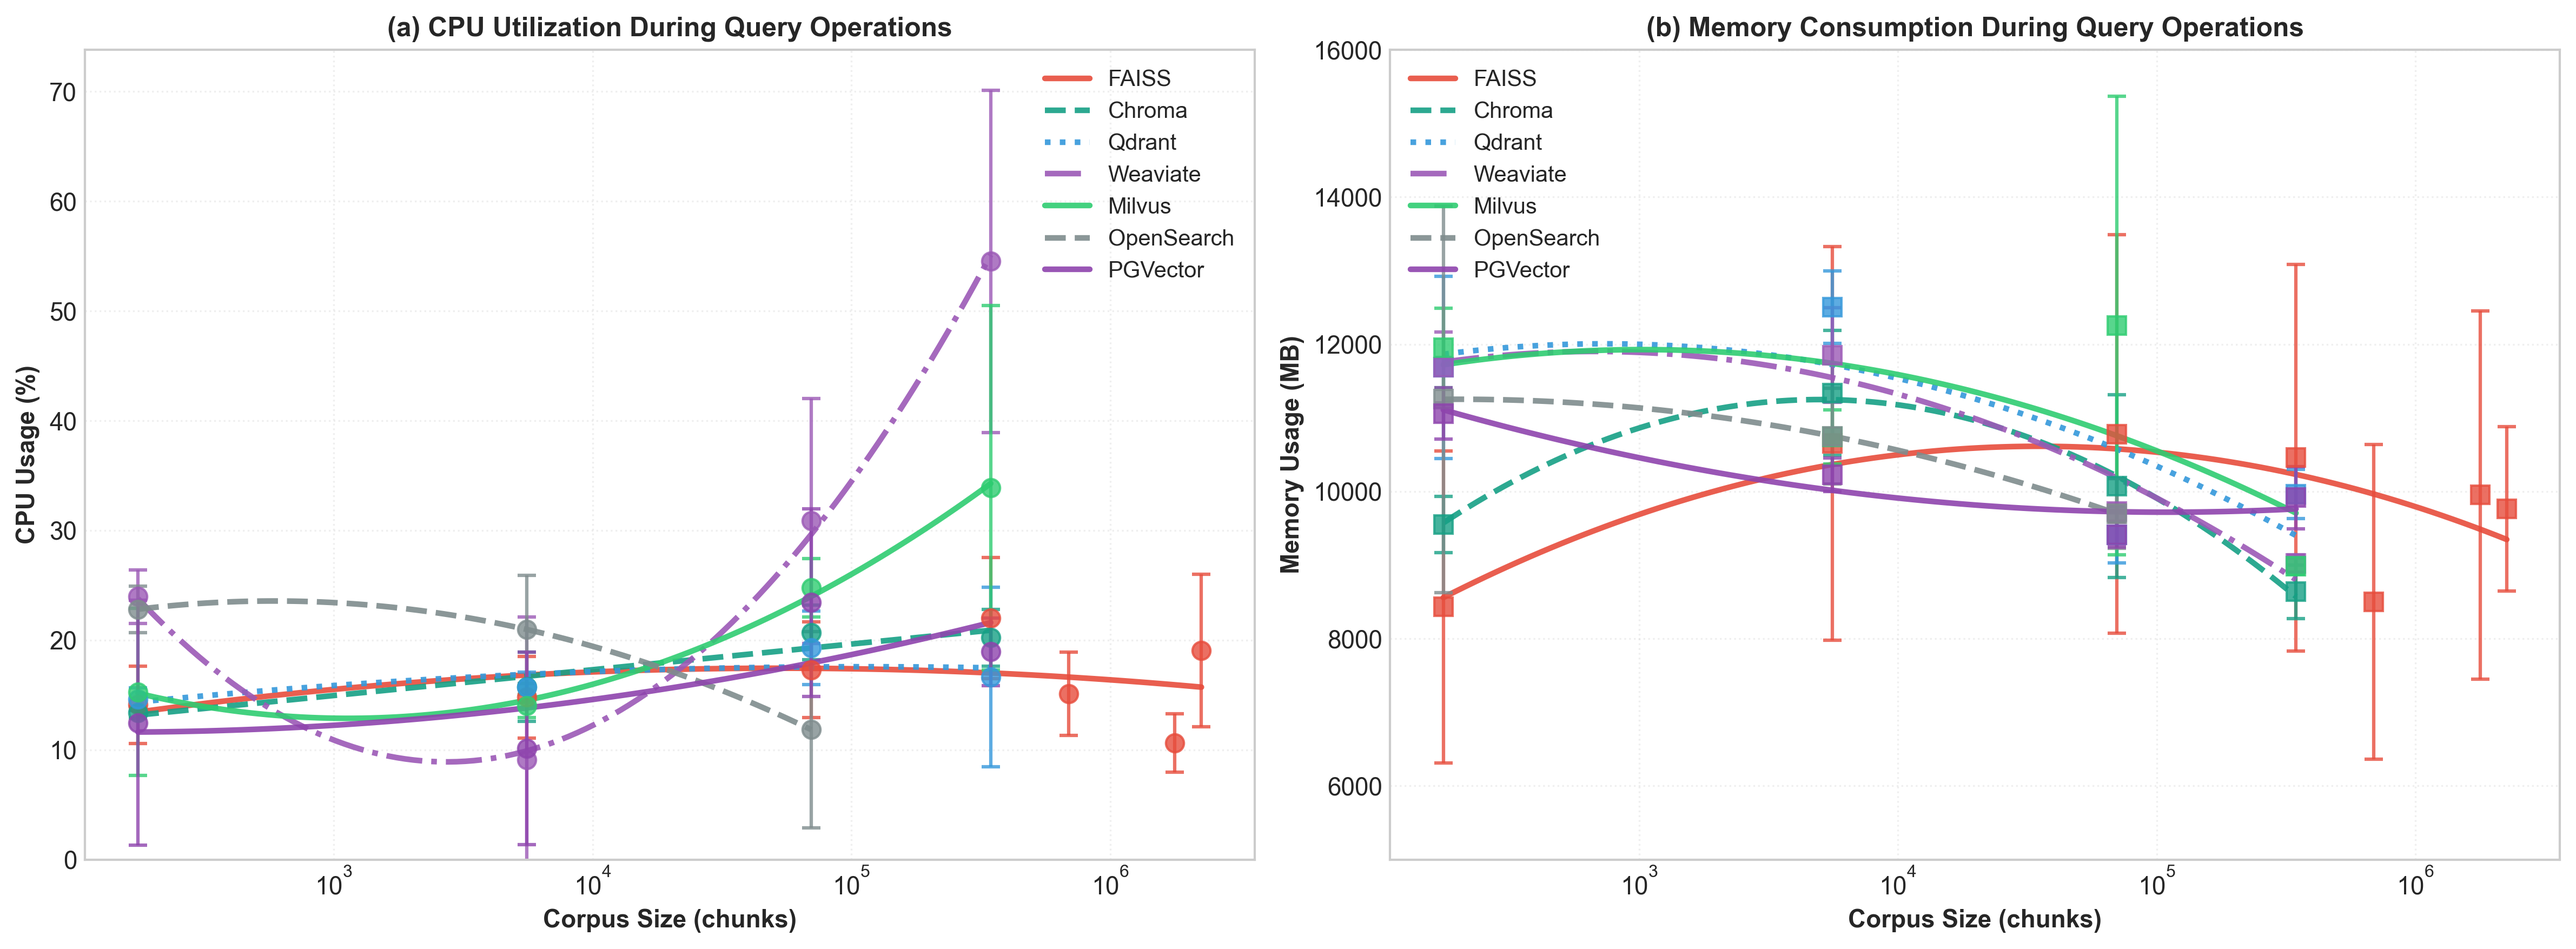
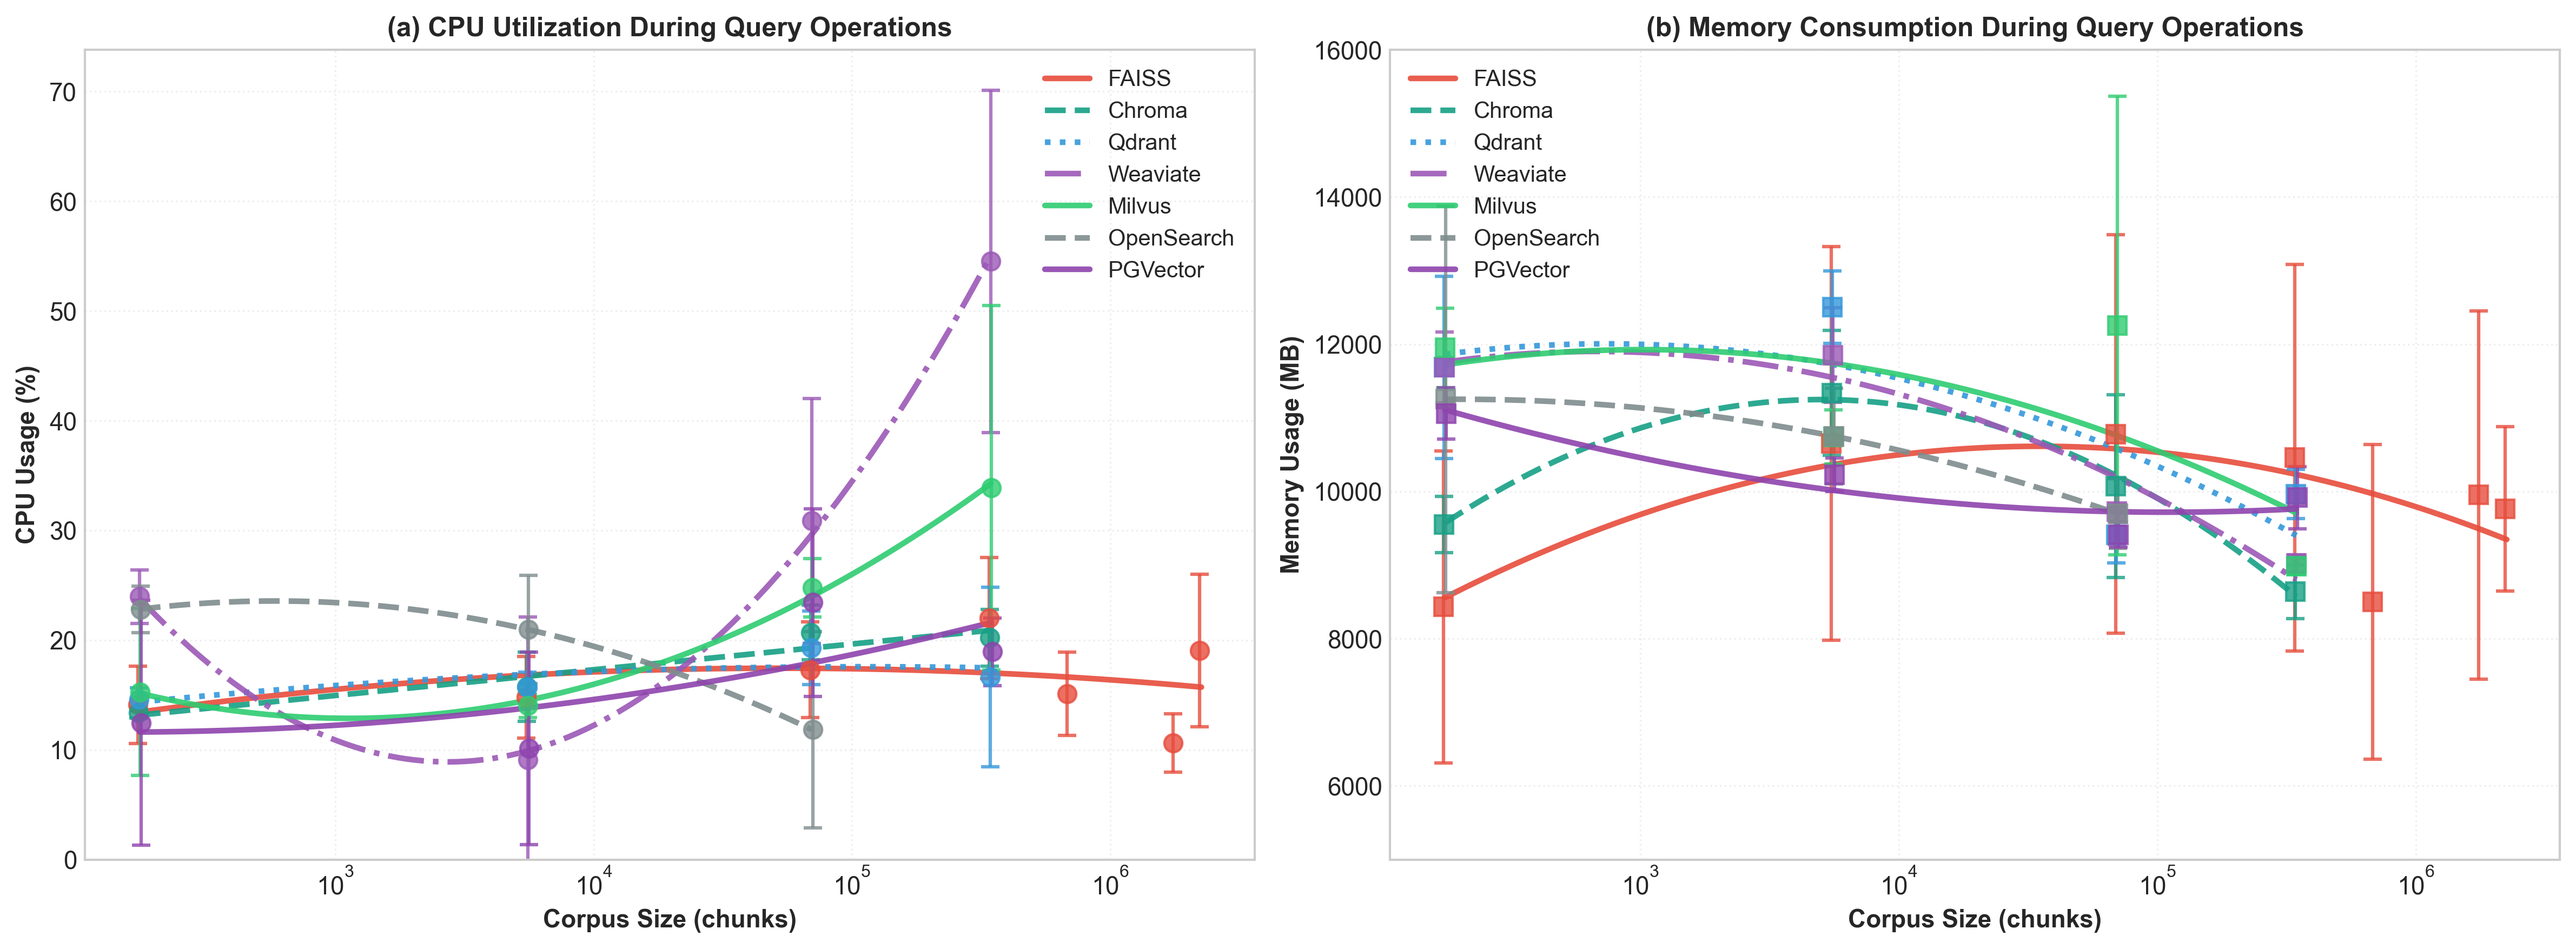
Add horizontal offsets to resource utilization plot for clarity
- Apply 3% x-offset in log space to separate overlapping error bars
- Both CPU (panel a) and Memory (panel b) now have offset data points
- Makes it much easier to distinguish between databases at same corpus size
- Consistent with 4-panel plot offset methodology

Addresses visualization issue where overlapping error bars made it
difficult to distinguish between databases with similar resource usage.

diff --git a/Scripts/plot_resource_utilization.py b/Scripts/plot_resource_utilization.py
@@ -298,8 +298,13 @@ def plot_resource_utilization_dashboard(all_metrics, output_dir):
     # Based on 3 runs of FAISS at 2.2M corpus: mean=11.54%, std=2.90%, CV=25.11%
     CV_PERCENT = 25.11
 
+    # Create x-offset mapping for each database to prevent error bar overlap
+    db_names_list = list(all_metrics.keys())
+    num_dbs = len(db_names_list)
+    offset_scale = 0.03  # 3% offset in log space
+
     # Panel 1: CPU Usage (Average) with error bars and polynomial trend lines
-    for db_name, metrics in all_metrics.items():
+    for db_idx, (db_name, metrics) in enumerate(all_metrics.items()):
         if metrics:
             # Filter out data points with 0 CPU utilization
             filtered_data = [(m['chunks'], m['cpu_avg'], m.get('cpu_std', 0), m['memory_avg'], m.get('memory_std', 0))
@@ -317,10 +322,14 @@ def plot_resource_utilization_dashboard(all_metrics, output_dir):
             cpu_err = [std if std > 0 else c * (CV_PERCENT / 100.0)
                       for c, std in zip(cpu_avg, cpu_std)]
 
+            # Apply x-position offset to prevent overlap (in log space)
+            offset_factor = 1.0 + (db_idx - num_dbs/2) * offset_scale / num_dbs
+            chunks_offset = [c * offset_factor for c in chunks]
+
             color = DB_COLORS.get(db_name, '#000000')
 
             # Plot data points with error bars (no connecting lines)
-            ax1.errorbar(chunks, cpu_avg, yerr=cpu_err,
+            ax1.errorbar(chunks_offset, cpu_avg, yerr=cpu_err,
                     fmt='o', markersize=8,
                     color=color,
                     alpha=0.8, capsize=4, capthick=1.5,
@@ -355,7 +364,7 @@ def plot_resource_utilization_dashboard(all_metrics, output_dir):
     ax1.set_ylim(bottom=0)
 
     # Panel 2: Memory Usage (Average) with error bars and polynomial trend lines
-    for db_name, metrics in all_metrics.items():
+    for db_idx, (db_name, metrics) in enumerate(all_metrics.items()):
         if metrics:
             # Filter out data points with 0 CPU utilization (same filter as CPU panel)
             filtered_data = [(m['chunks'], m['memory_avg'], m.get('memory_std', 0))
@@ -373,10 +382,14 @@ def plot_resource_utilization_dashboard(all_metrics, output_dir):
             memory_err = [std if std > 0 else m * (CV_PERCENT / 100.0)
                          for m, std in zip(memory_avg, memory_std)]
 
+            # Apply x-position offset to prevent overlap (in log space)
+            offset_factor = 1.0 + (db_idx - num_dbs/2) * offset_scale / num_dbs
+            chunks_offset = [c * offset_factor for c in chunks]
+
             color = DB_COLORS.get(db_name, '#000000')
 
             # Plot data points with error bars (no connecting lines)
-            ax2.errorbar(chunks, memory_avg, yerr=memory_err,
+            ax2.errorbar(chunks_offset, memory_avg, yerr=memory_err,
                     fmt='s', markersize=8,
                     color=color,
                     alpha=0.8, capsize=4, capthick=1.5,
